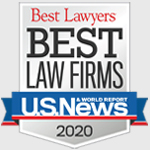
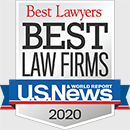
no message

diff --git a/site/layouts/partials/herolower.html b/site/layouts/partials/herolower.html
@@ -12,9 +12,9 @@
         </div>
         <div class="herolower__rightblock">
             <picture>
-<!--                <source data-srcset="{{ .Site.BaseURL }}img/bestlawfirms-2020.webp" type="image/webp" class="img-fluid">-->
-                <source data-srcset="{{ .Site.BaseURL }}img/BLF-2020-Silver-Standard.jpg" type="image/jpg" class="img-fluid">
-                <img data-src="{{ .Site.BaseURL }}img/BLF-2020-Silver-Standard.jpg" src="" class="img-fluid lazyload" alt="Best Lawyers Best Law Firms U.S. News and World Report 2020">
+                <source data-srcset="{{ .Site.BaseURL }}img/bestlawfirms-2020.webp" type="image/webp" class="img-fluid">
+                <source data-srcset="{{ .Site.BaseURL }}img/bestlawfirms-2020.jpg" type="image/jpg" class="img-fluid">
+                <img data-src="{{ .Site.BaseURL }}img/bestlawfirms-2020.jpg" src="" class="img-fluid lazyload" alt="Best Lawyers Best Law Firms U.S. News and World Report 2020">
             </picture>
         </div>
     </div>
